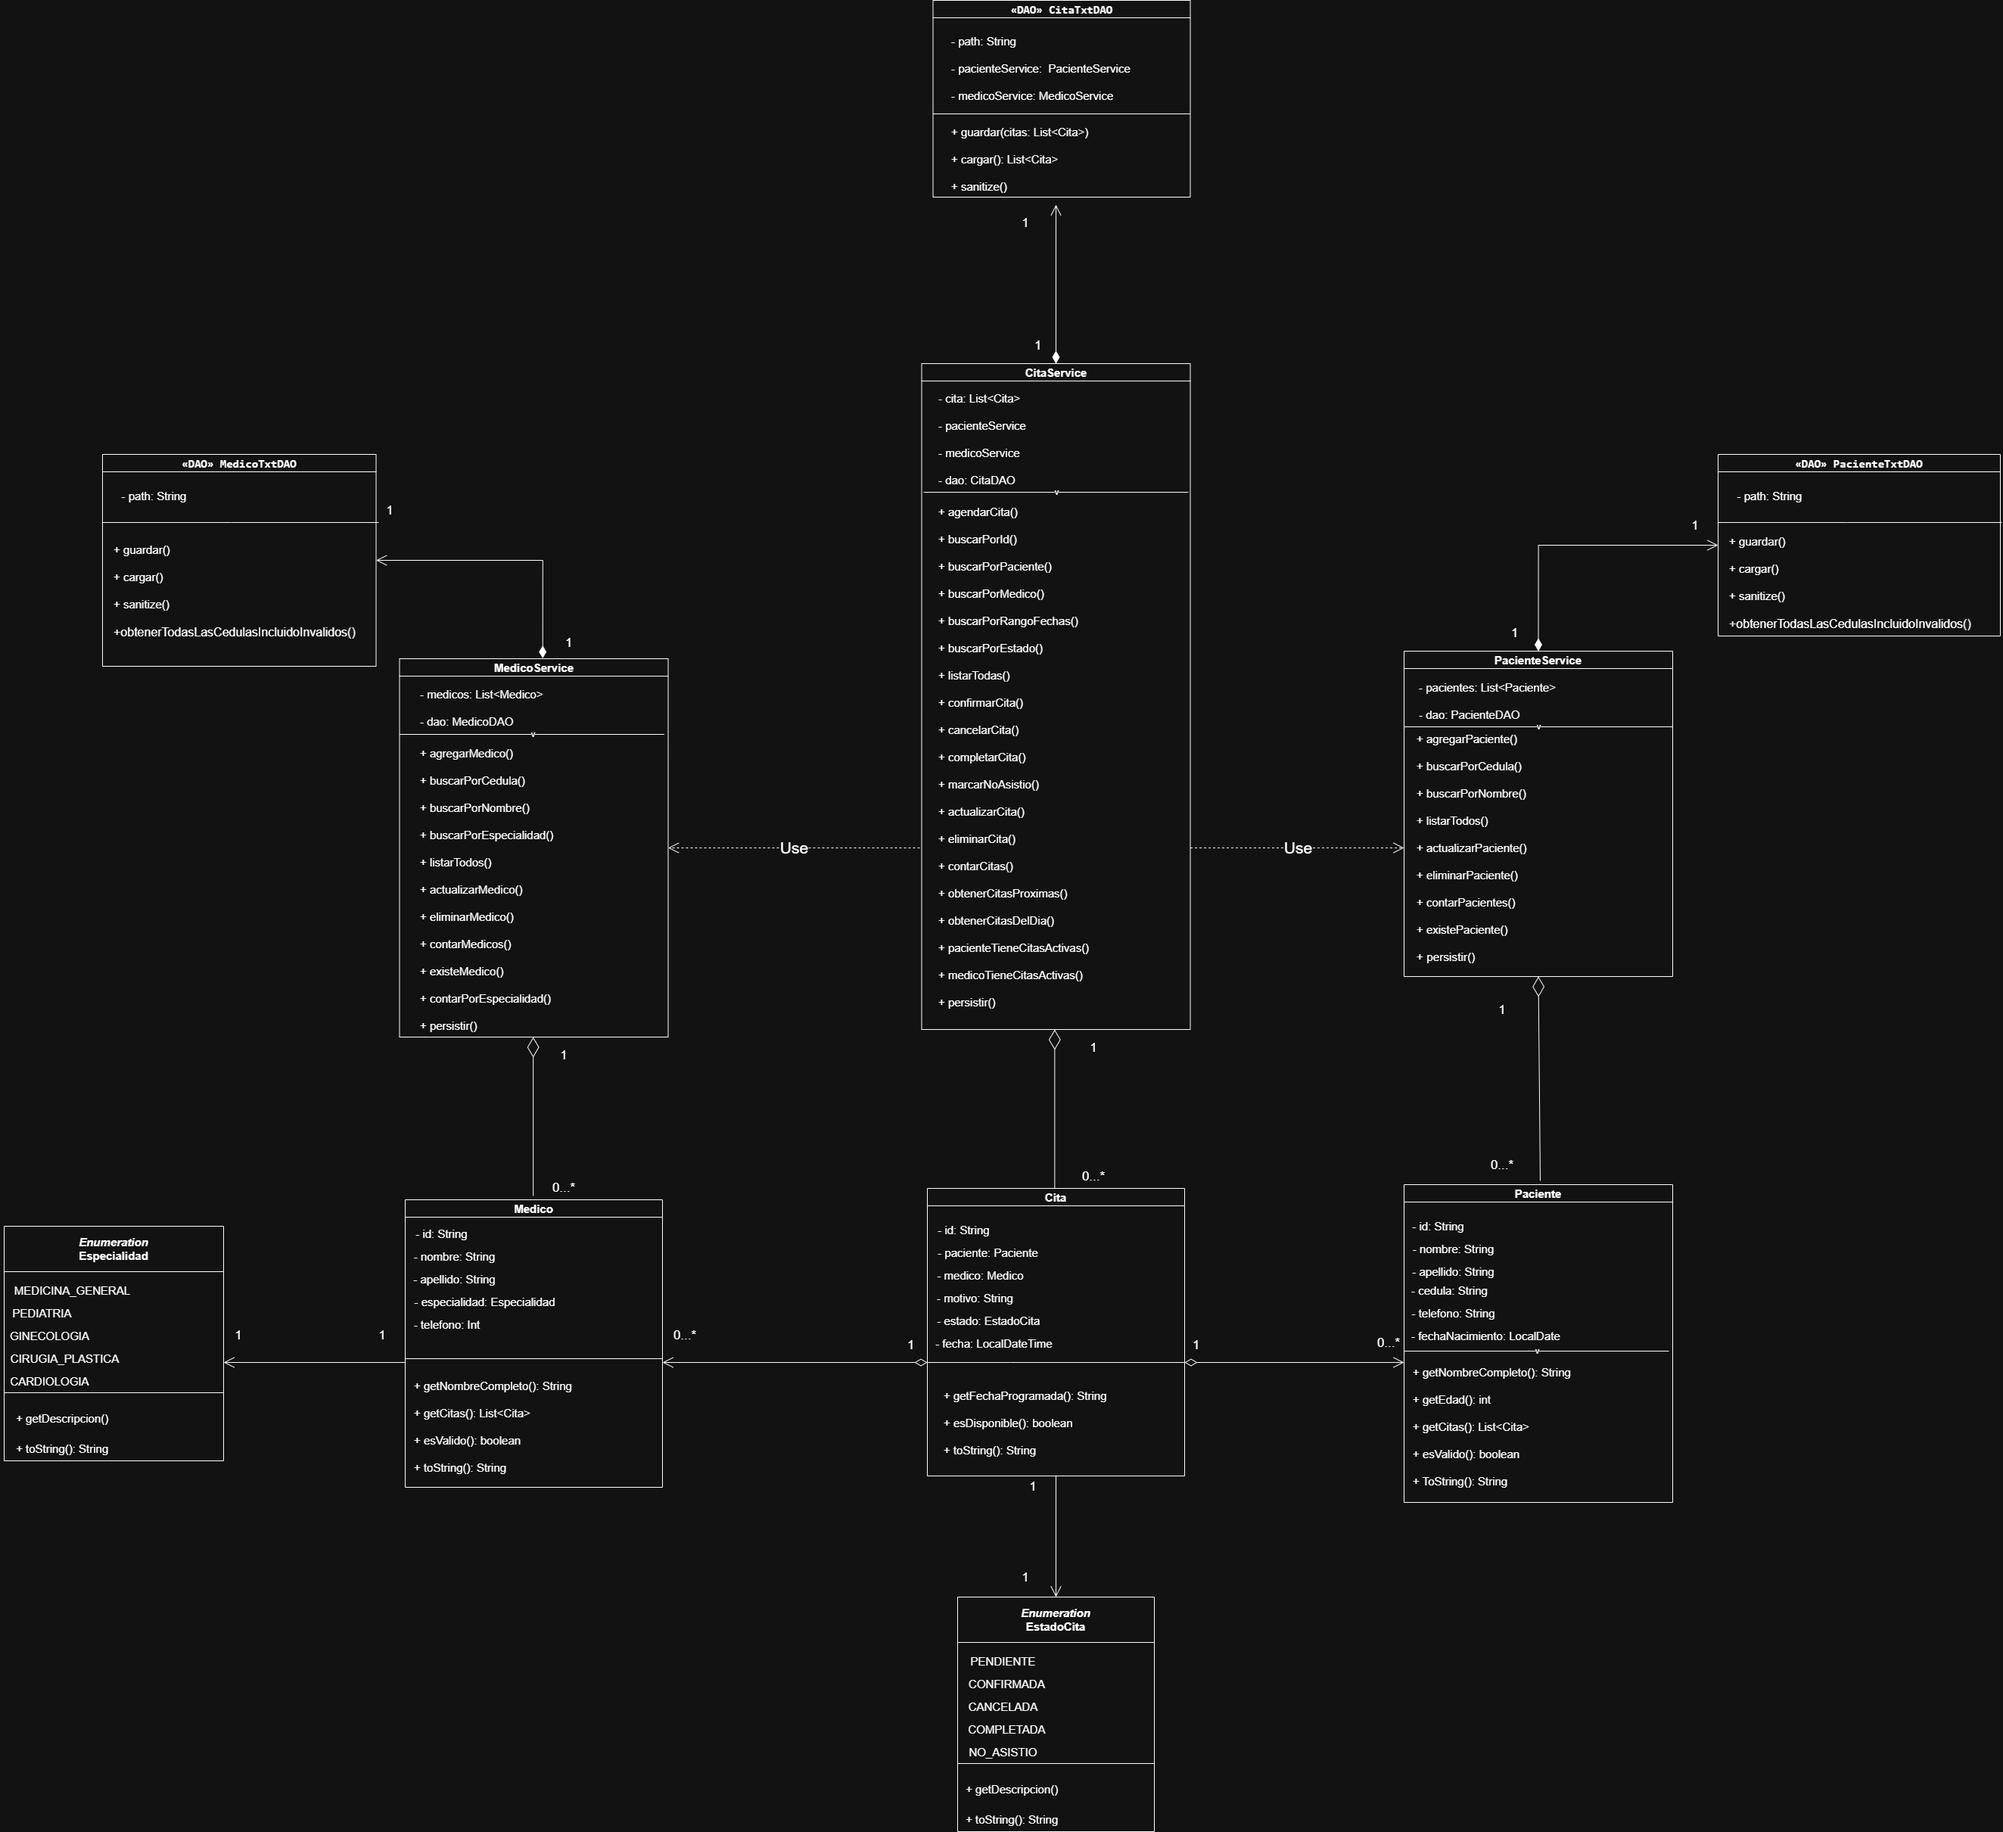
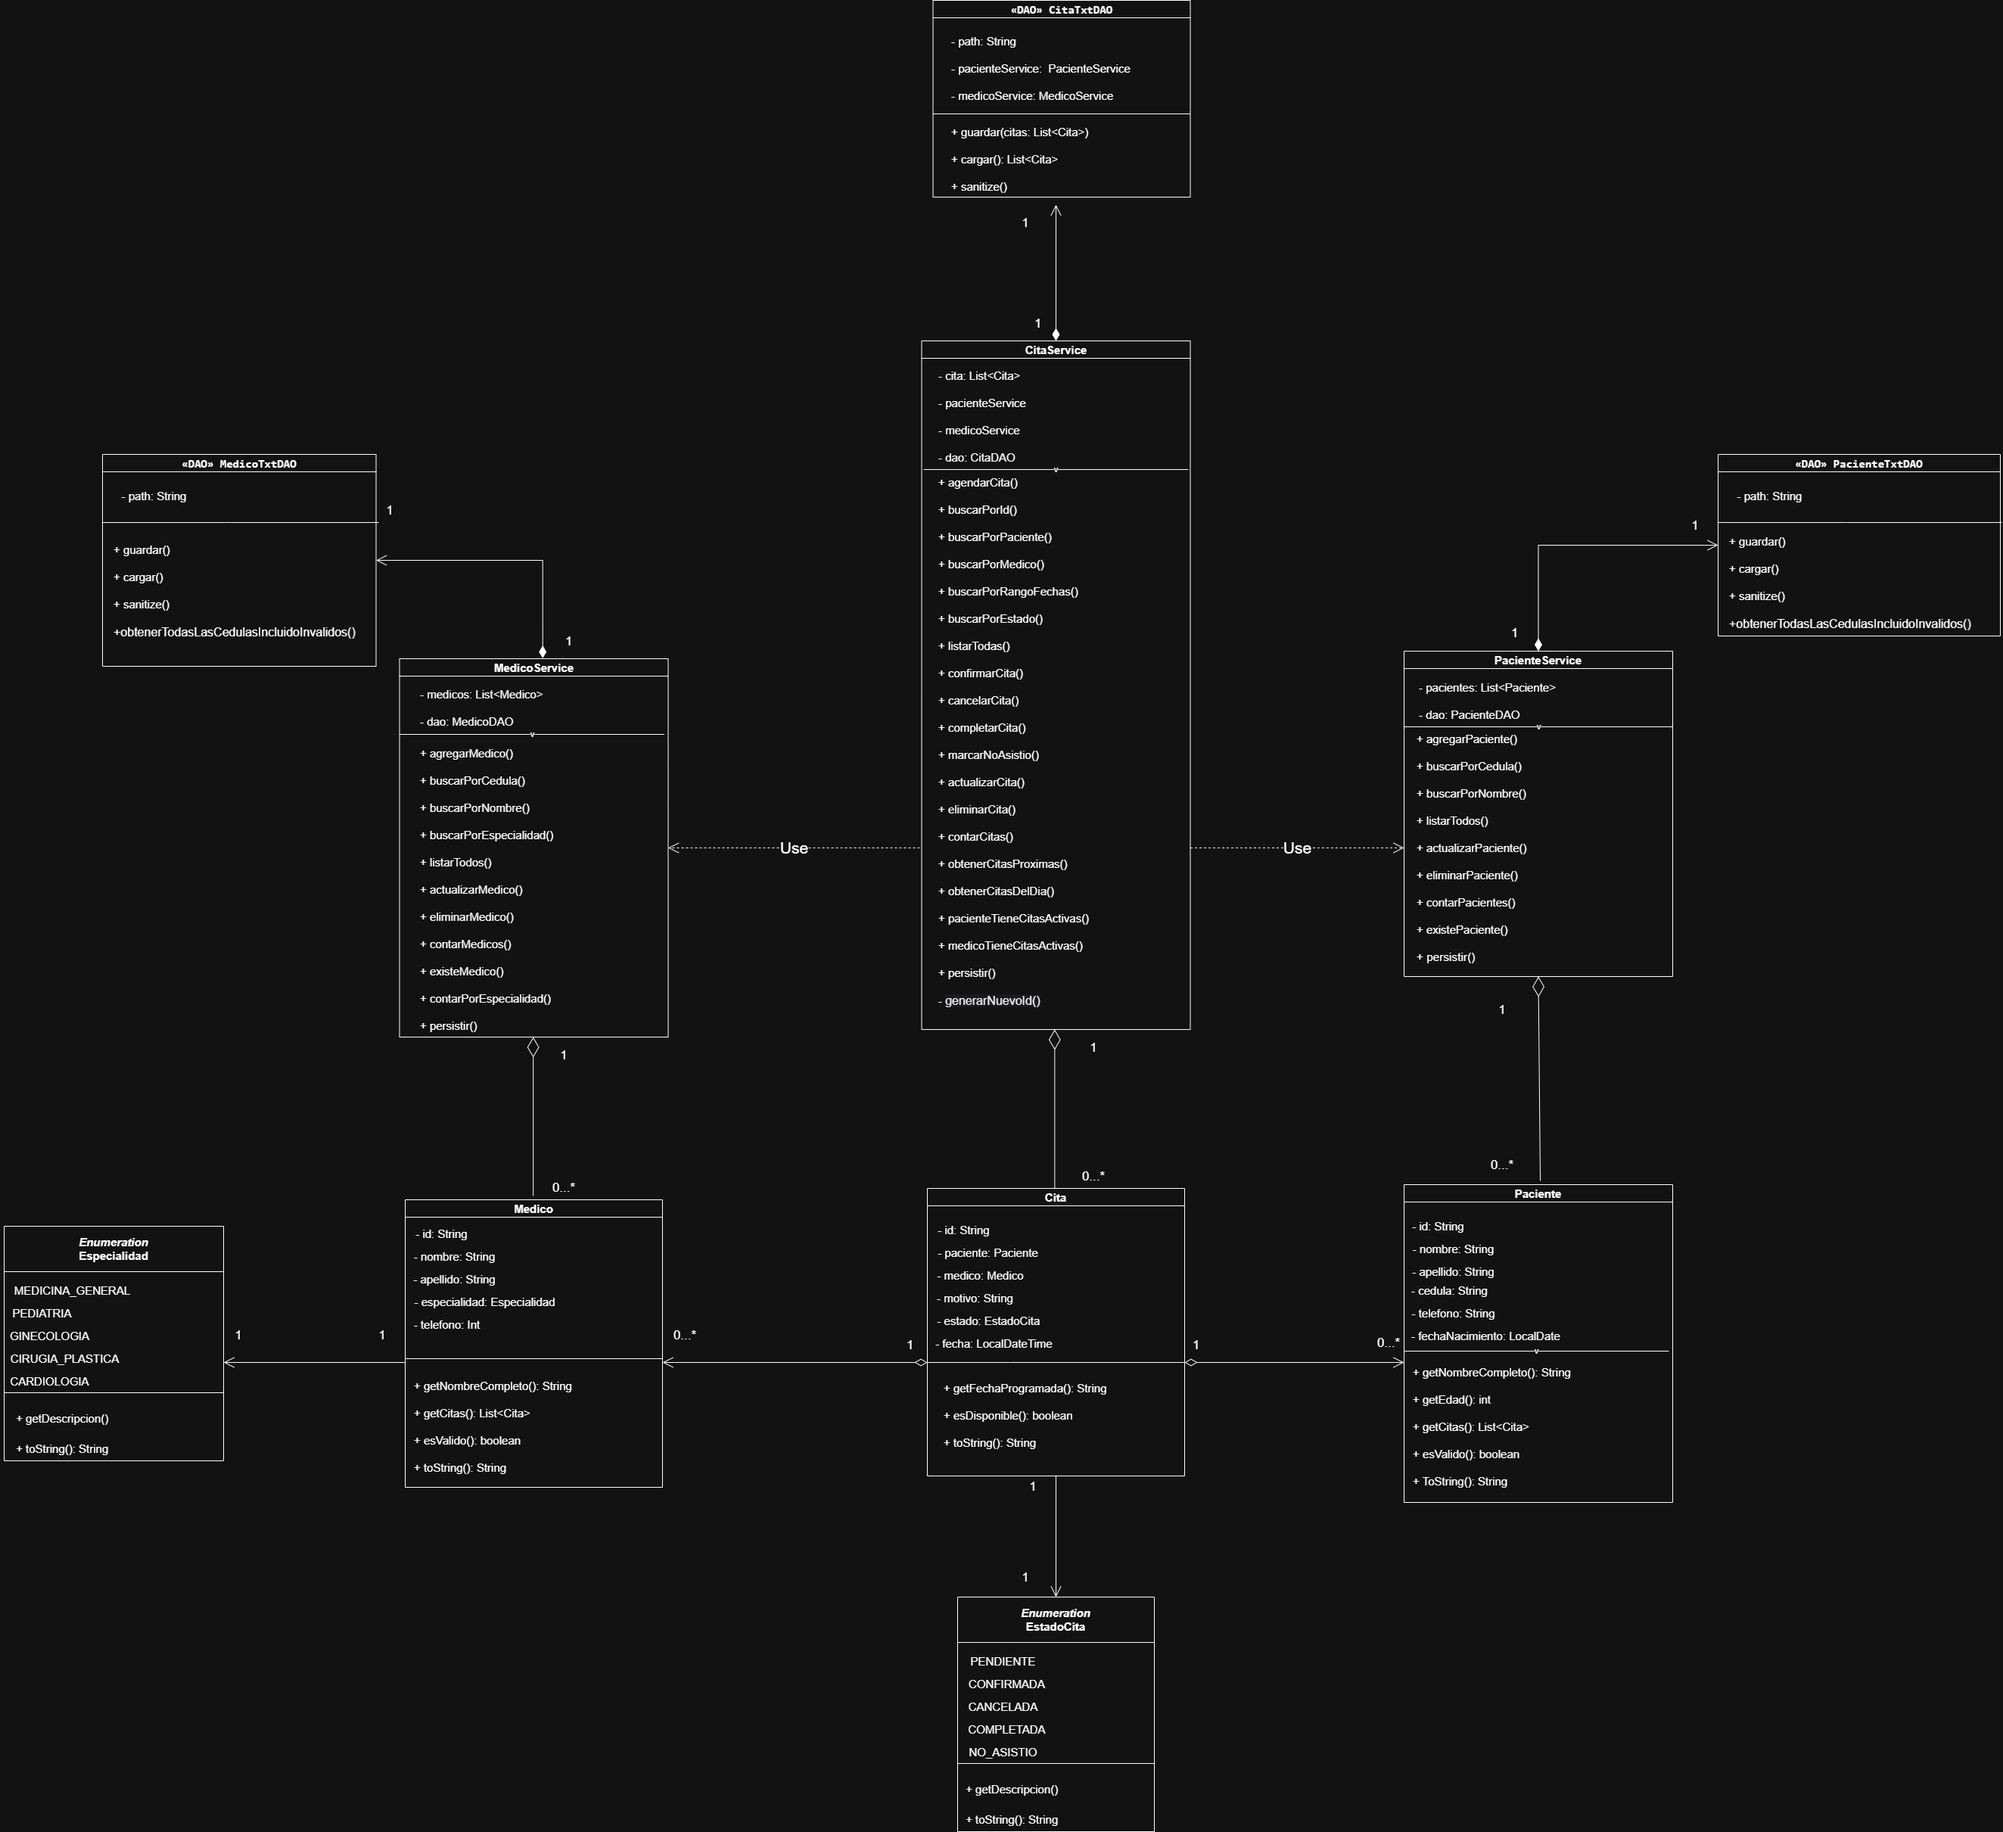
Ultima Actualización
Se arregla un bug con los IDS al generar citas en fechas pasadas, se actualiza en las interfaces gráficas las instrucciones para buscar, y se actualiza el diagrama de clases por la solución al bug

Changed region(s): [[0.4647, 0.1859, 0.5576, 0.5576], [0.4647, 0.7435, 0.5576, 0.8055]]

diff --git a/AppClinica/src/main/java/com/mycompany/appclinica/Services/CitaService.java b/AppClinica/src/main/java/com/mycompany/appclinica/Services/CitaService.java
@@ -95,6 +95,8 @@ public class CitaService {
             return false;
         }
 
+        cita.setId(generarNuevoId());
+        
         boolean res = citas.add(cita);
         if (res) {
             persistir();
@@ -102,6 +104,22 @@ public class CitaService {
         return res;
     }
 
+    private String generarNuevoId() {
+        int maxId = 0;
+        for (Cita c : citas) {
+            try {
+                String[] partes = c.getId().split("-");
+                int num = Integer.parseInt(partes[1]);
+                if (num > maxId) {
+                    maxId = num;
+                }
+            } catch (Exception e) {
+                // ignorar errores de formato
+            }
+        }
+        return String.format("CITA-%04d", maxId + 1);
+    }
+    
     /**
      * Verifica si existe un conflicto de horario para un médico en una fecha
      * específica. Se considera conflicto si hay otra cita en la misma hora (con

diff --git a/AppClinica/src/main/java/com/mycompany/appclinica/Models/Cita.java b/AppClinica/src/main/java/com/mycompany/appclinica/Models/Cita.java
@@ -35,7 +35,6 @@ public class Cita {
      * @param fecha Fecha y hora programada
      */
     public Cita(Paciente paciente, Medico medico, String motivo, LocalDateTime fecha) {
-        this.id = generarIdCita();
         this.paciente = paciente;
         this.medico = medico;
         this.motivo = motivo;
@@ -79,15 +78,6 @@ public class Cita {
         } catch (NumberFormatException e) {
             // ID no es del formato esperado, no actualizar contador
         }
-    }
-
-    /**
-     * Genera un ID único para la cita en formato CITA-XXXX
-     *
-     * @return ID generado
-     */
-    private String generarIdCita() {
-        return String.format("CITA-%04d", contadorCitas++);
     }
 
     /**

diff --git a/AppClinica/src/main/java/com/mycompany/appclinica/Presentation/ListaPaciente.java b/AppClinica/src/main/java/com/mycompany/appclinica/Presentation/ListaPaciente.java
@@ -264,7 +264,7 @@ public class ListaPaciente extends javax.swing.JInternalFrame {
 
         jLabel1.setFont(new java.awt.Font("Segoe UI", 1, 12)); // NOI18N
         jLabel1.setForeground(new java.awt.Color(46, 71, 86));
-        jLabel1.setText("Ingrese la cédula:");
+        jLabel1.setText("Ingrese la cédula, nombre o apellido del paciente:");
 
         jPanel1.setBackground(new java.awt.Color(30, 107, 117));
 

diff --git a/AppClinica/src/main/java/com/mycompany/appclinica/Presentation/ListaMedico.java b/AppClinica/src/main/java/com/mycompany/appclinica/Presentation/ListaMedico.java
@@ -134,7 +134,7 @@ public class ListaMedico extends javax.swing.JInternalFrame {
 
         jLabel2.setFont(new java.awt.Font("Segoe UI", 1, 12)); // NOI18N
         jLabel2.setForeground(new java.awt.Color(46, 71, 86));
-        jLabel2.setText("Ingrese la cédula:");
+        jLabel2.setText("Ingrese la cédula, nombre o apellido del médico:");
 
         jPanel1.setBackground(new java.awt.Color(30, 107, 117));
 

diff --git a/AppClinica/src/main/java/com/mycompany/appclinica/Presentation/ListaCitas.java b/AppClinica/src/main/java/com/mycompany/appclinica/Presentation/ListaCitas.java
@@ -181,7 +181,7 @@ public class ListaCitas extends javax.swing.JInternalFrame {
 
         jLabel1.setFont(new java.awt.Font("Segoe UI", 1, 12)); // NOI18N
         jLabel1.setForeground(new java.awt.Color(46, 71, 86));
-        jLabel1.setText("Ingrese su cédula:");
+        jLabel1.setText("Ingrese la cédula del médico o paciente:");
 
         jPanel1.setBackground(new java.awt.Color(30, 107, 117));
 
